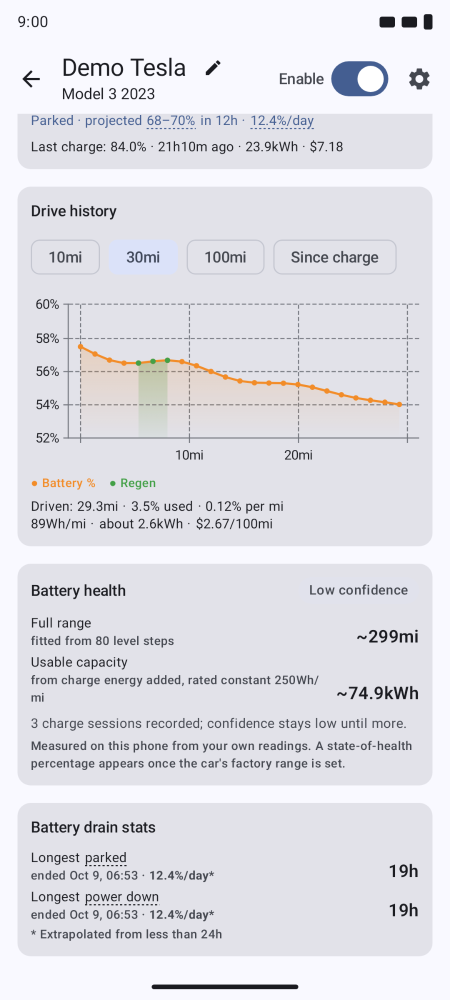
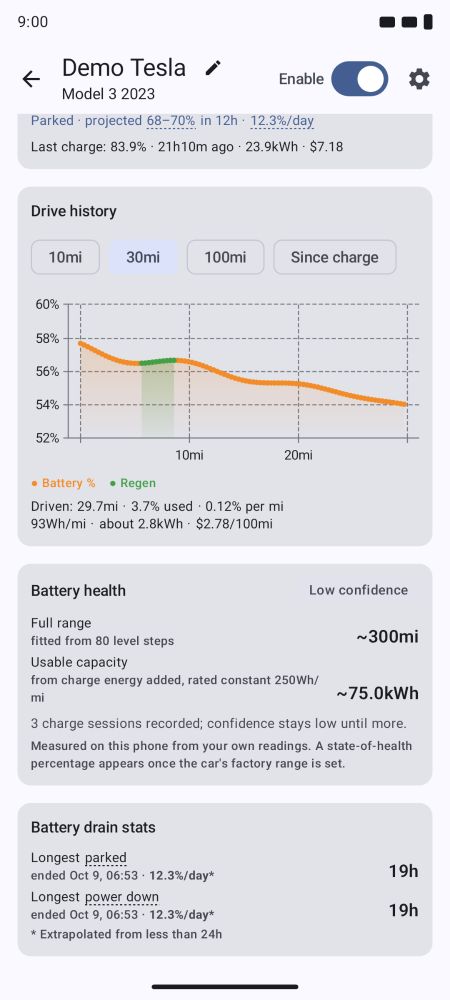
test: read the demo drives every thirty seconds
Claude-Session: https://claude.ai/code/session_01PLLPdEGMtwQUrgVjwf5FFz

diff --git a/app/src/test/java/com/dzid26/teslable/ui/DemoScreenFixtures.kt b/app/src/test/java/com/dzid26/teslable/ui/DemoScreenFixtures.kt
@@ -258,7 +258,7 @@ internal object DemoScreenFixtures {
     }
 
     private const val DRIVE_SPEED = 40
-    private const val DRIVE_READ_SECONDS = 120L
+    private const val DRIVE_READ_SECONDS = 30L
 
     /** The odometer moves this many hundredths of a mile between two drive readings at [DRIVE_SPEED] mph. */
     private const val DRIVE_STEP = (DRIVE_SPEED * 100 * DRIVE_READ_SECONDS / 3600).toInt()
